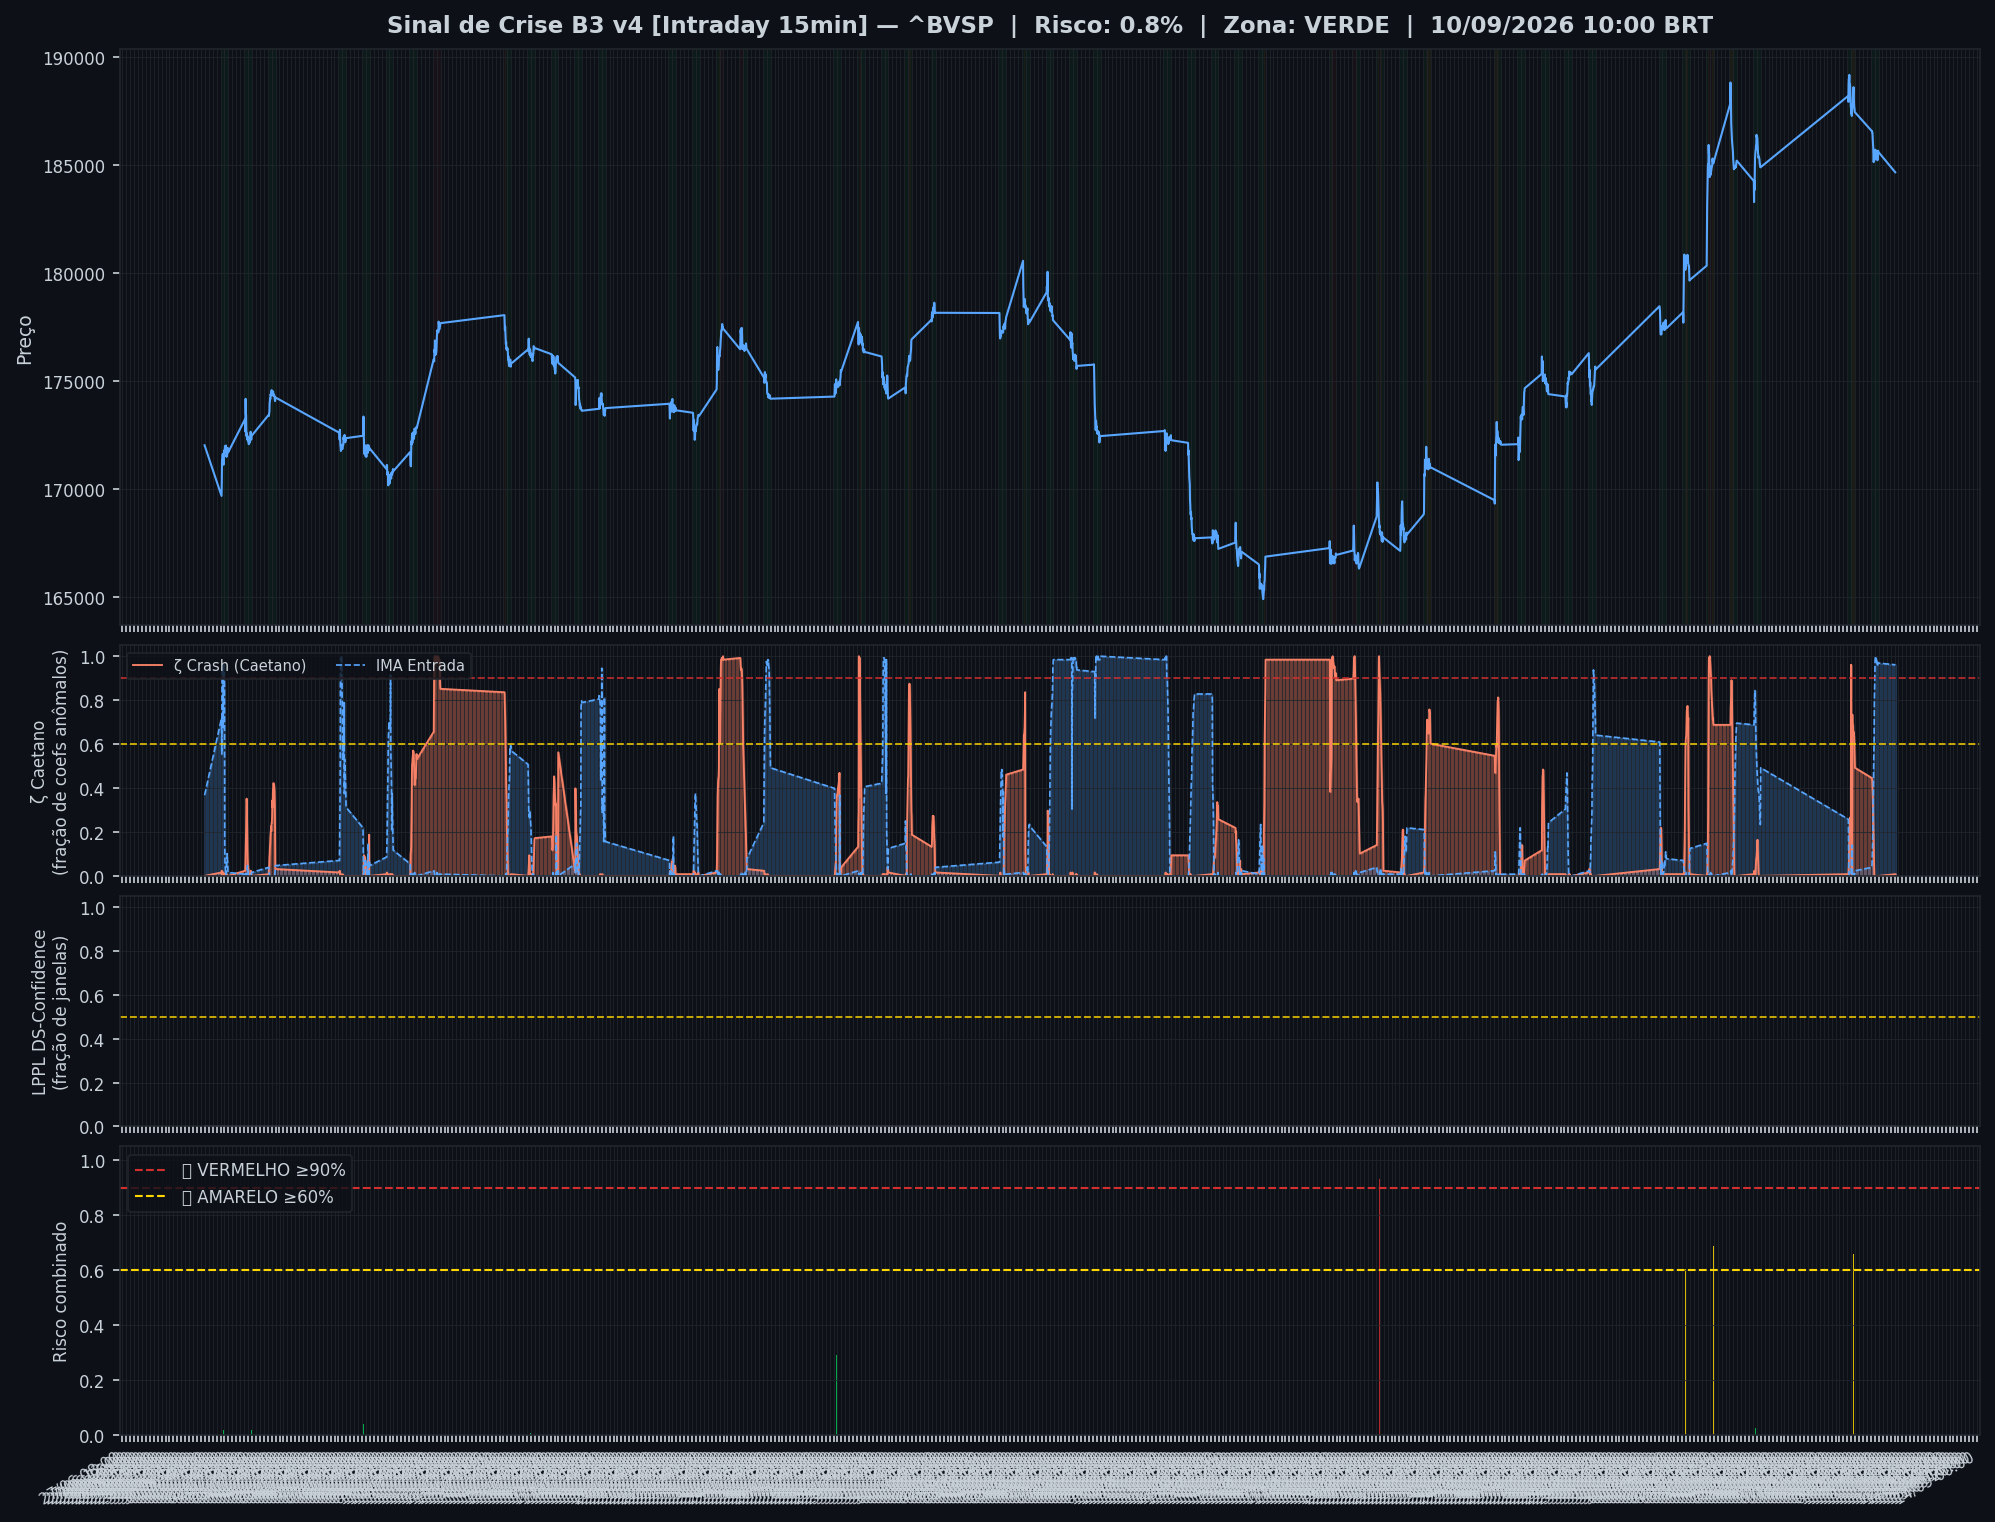
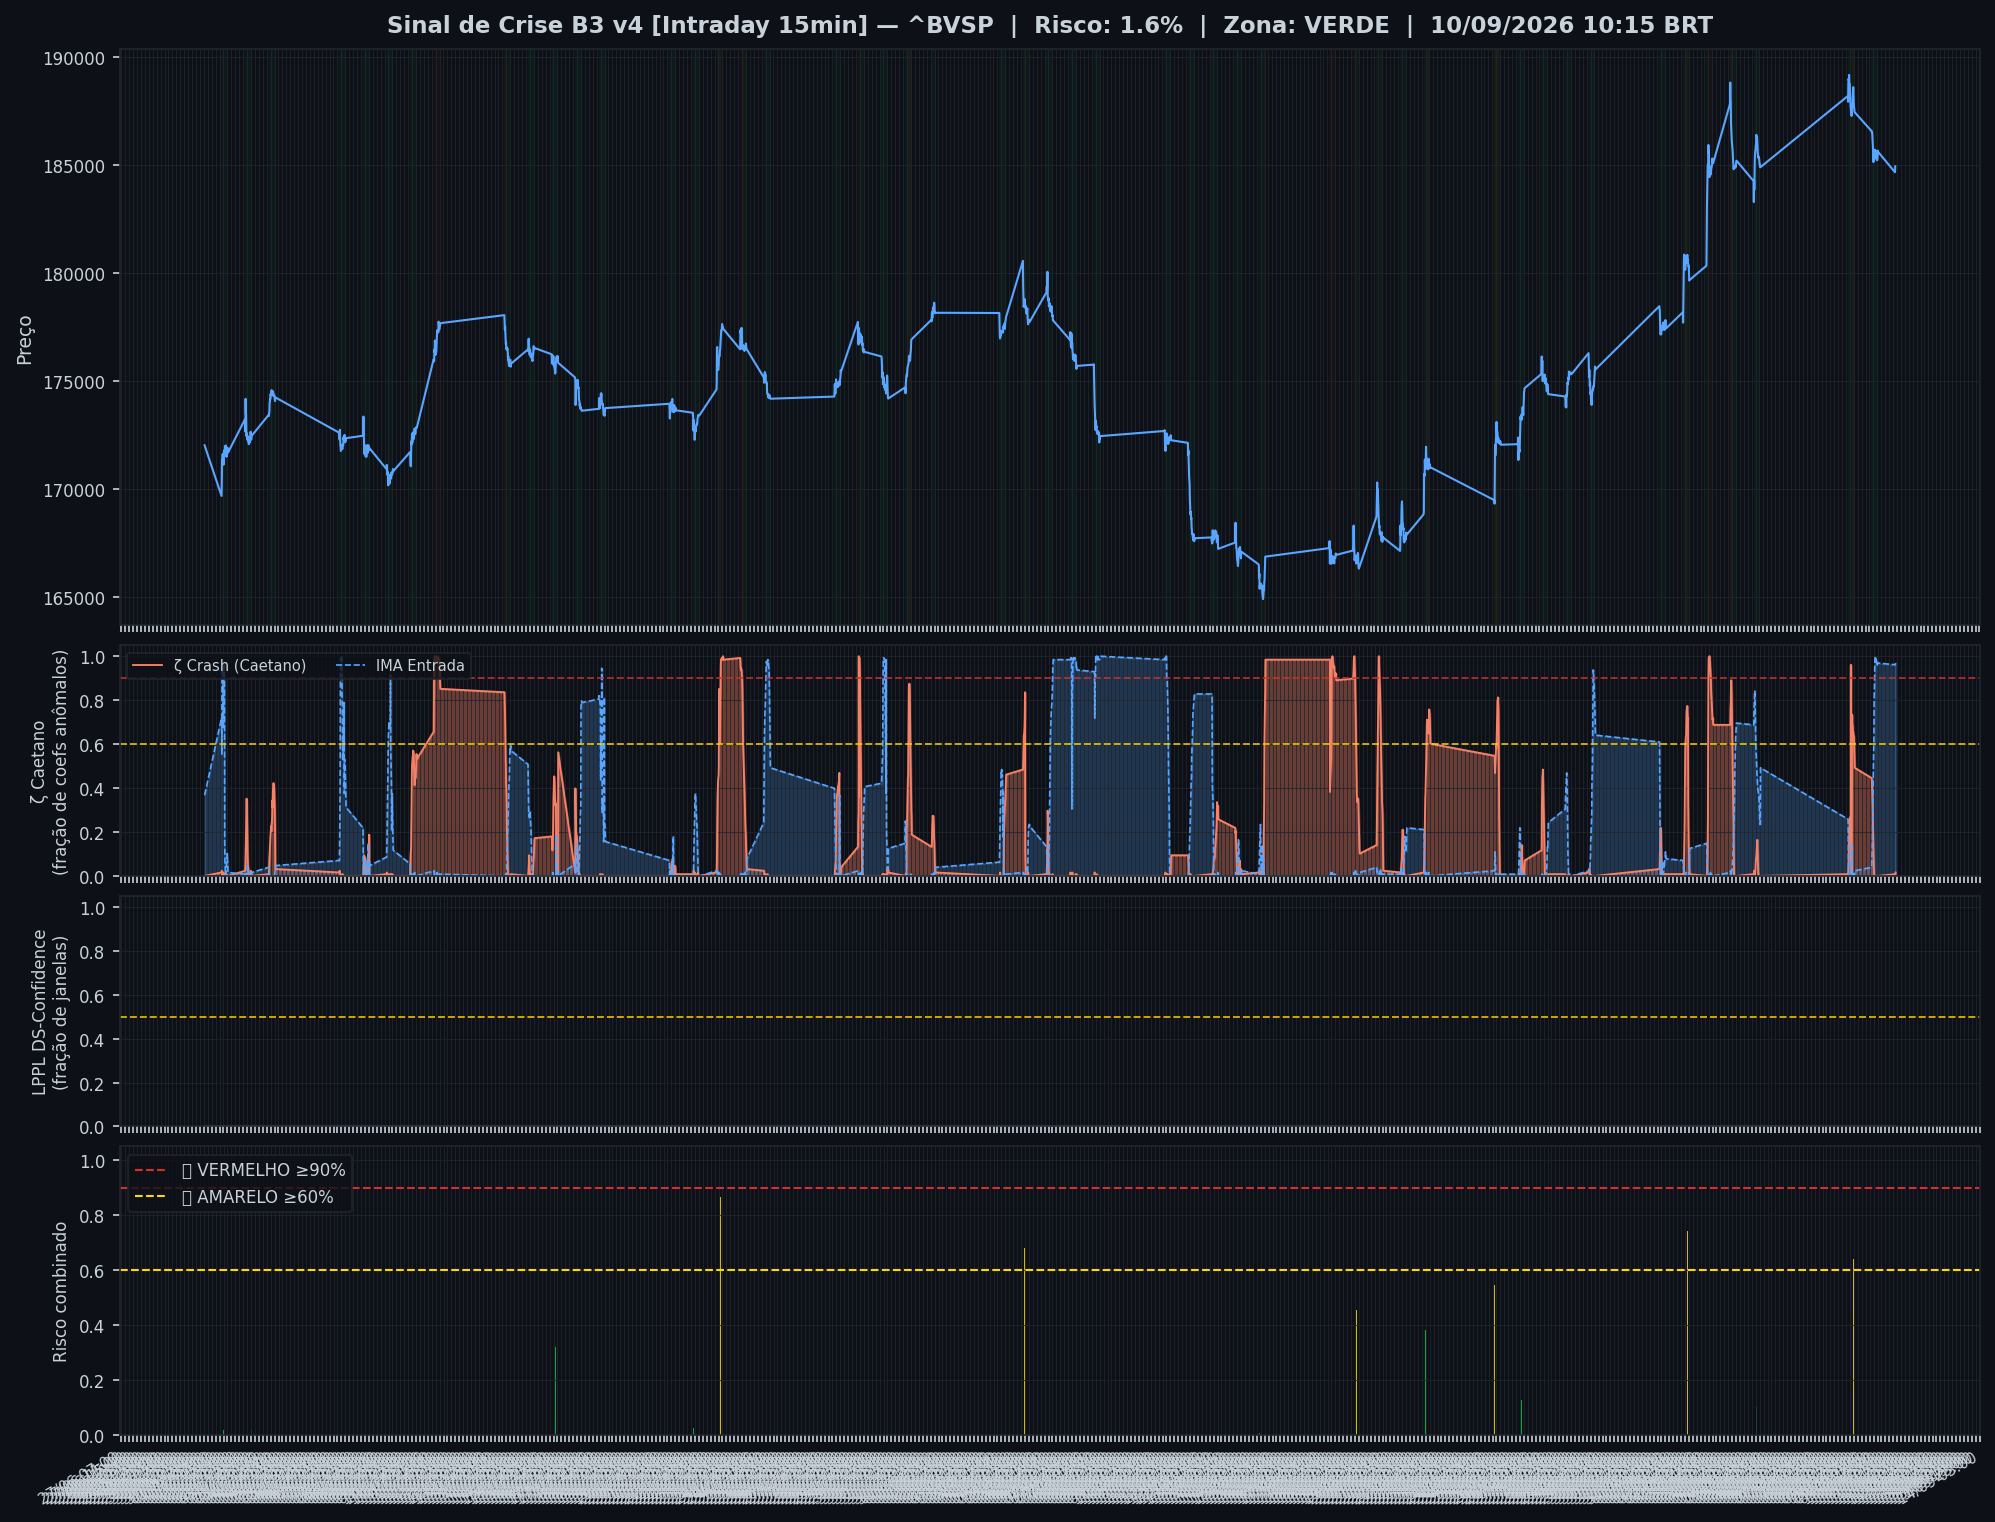
🤖 Auto: Sinal 10/09/2026 11:00

Changed region(s): [[0.0932, 0.4323, 0.9634, 0.5867], [0.0311, 0.9264, 0.9945, 0.9882]]

diff --git a/content/intraday/2026-09-10.md b/content/intraday/2026-09-10.md
@@ -1,20 +1,20 @@
 ---
-title: "🟢 Intraday 10/09/2026 10:00 BRT — VERDE"
+title: "🟢 Intraday 10/09/2026 10:15 BRT — VERDE"
 date: 2026-09-10
 tags: [intraday]
 ---
 
-> [!success] 🟢 **VERDE** — Risco 1% · ▲ +1 p.p. vs leitura anterior
+> [!success] 🟢 **VERDE** — Risco 2% · ▲ +1 p.p. vs leitura anterior
 > `░░░░░░░░░░░░░░░░░░░░`
 > Mercado sem sinais relevantes de estresse.
 
 
 | Indicador | Valor |
 |---|---|
-| 🔴 ζ Crash — severidade da queda em curso | **1%** |
-| 🔵 ζ Entrada — estrutura de fundo | 96% |
+| 🔴 ζ Crash — severidade da queda em curso | **2%** |
+| 🔵 ζ Entrada — estrutura de fundo | 97% |
 | 🫧 LPPL DS-Confidence | 0% |
-| 📊 Ibovespa | 184.663 pts |
+| 📊 Ibovespa | 184.943 pts |
 
 ![Gráfico do sinal](../graficos/sinal_intraday.png)
 
@@ -22,6 +22,7 @@ tags: [intraday]
 
 | Data | Zona | Risco | IMA Crash | Entrada | LPPL |
 |---|---|---|---|---|---|
+| 2026-09-10 10:15 | 🟢 VERDE | **2%** | 2% | 97% | 0% |
 | 2026-09-10 10:00 | 🟢 VERDE | **1%** | 1% | 96% | 0% |
 | 2026-09-09 16:45 | 🟢 VERDE | **0%** | 0% | 97% | 0% |
 | 2026-09-09 16:30 | 🟢 VERDE | **0%** | 0% | 97% | 0% |
@@ -51,7 +52,6 @@ tags: [intraday]
 | 2026-09-09 10:30 | 🟢 VERDE | **40%** | 40% | 11% | 0% |
 | 2026-09-09 10:15 | 🟢 VERDE | **43%** | 43% | 8% | 0% |
 | 2026-09-09 10:00 | 🟢 VERDE | **45%** | 45% | 4% | 0% |
-| 2026-09-08 16:45 | 🟡 AMARELO | **49%** | 49% | 2% | 0% |
 
 ## Monitor Multi-Ativo
 
@@ -59,35 +59,35 @@ tags: [intraday]
 
 | Zona | Ativo | Setor | IMA Crash | IMA Entrada |
 |---|---|---|---|---|
-| 🟢 | **USD/BRL** | Câmbio | 56.2% | 0.0% |
-| 🟢 | **VALE** | Mineração | 50.0% | 1.6% |
-| 🟢 | **ITAUUNIBANCO** | Financeiro | 50.0% | 1.6% |
-| 🟢 | **PETROBRAS** | Petróleo | 50.0% | 1.6% |
-| 🟢 | **PETROBRAS** | Petróleo | 50.0% | 1.6% |
-| 🟢 | **AXIA ENERGIA** | Energia | 50.0% | 1.6% |
-| 🟢 | **SABESP** | Saneamento | 50.0% | 1.6% |
-| 🟢 | **BRADESCO** | Financeiro | 50.0% | 1.6% |
-| 🟢 | **B3** | Financeiro | 50.0% | 1.6% |
-| 🟢 | **ITAUSA** | Financeiro | 50.0% | 1.6% |
-| 🟢 | **WEG** | Industrial | 50.0% | 1.6% |
+| 🟢 | **USD/BRL** | Câmbio | 62.5% | 0.0% |
+| 🟢 | **VALE** | Mineração | 56.2% | 0.0% |
+| 🟢 | **ITAUUNIBANCO** | Financeiro | 56.2% | 0.0% |
+| 🟢 | **PETROBRAS** | Petróleo | 56.2% | 0.0% |
+| 🟢 | **PETROBRAS** | Petróleo | 56.2% | 0.0% |
+| 🟢 | **AXIA ENERGIA** | Energia | 56.2% | 0.0% |
+| 🟢 | **SABESP** | Saneamento | 56.2% | 0.0% |
+| 🟢 | **BRADESCO** | Financeiro | 56.2% | 0.0% |
+| 🟢 | **B3** | Financeiro | 56.2% | 0.0% |
+| 🟢 | **ITAUSA** | Financeiro | 56.2% | 0.0% |
+| 🟢 | **WEG** | Industrial | 56.2% | 0.0% |
+| 🟢 | **EMBRAER** | Outros | 56.2% | 0.0% |
+| 🟢 | **BRASIL** | Financeiro | 56.2% | 0.0% |
+| 🟢 | **AMBEV S/A** | Consumo | 56.2% | 0.0% |
+| 🟢 | **ENEVA** | Energia | 56.2% | 0.0% |
+| 🟢 | **EQUATORIAL** | Energia | 56.2% | 0.0% |
+| 🟢 | **COPEL** | Energia | 56.2% | 0.0% |
+| 🟢 | **PRIO** | Petróleo | 56.2% | 0.0% |
+| 🟢 | **VIBRA** | Energia | 56.2% | 0.0% |
+| 🟢 | **ULTRAPAR** | Outros | 56.2% | 0.0% |
+| 🟢 | **REDE D OR** | Saúde | 56.2% | 0.0% |
+| 🟢 | **LOCALIZA** | Aluguel | 56.2% | 0.0% |
+| 🟢 | **GERDAU** | Siderurgia | 56.2% | 0.0% |
+| 🟢 | **SUZANO S.A.** | Papel/Celulose | 56.2% | 0.0% |
 | 🟢 | **BTGP BANCO** | Financeiro | 50.0% | 1.6% |
-| 🟢 | **EMBRAER** | Outros | 50.0% | 1.6% |
-| 🟢 | **BRASIL** | Financeiro | 50.0% | 1.6% |
-| 🟢 | **AMBEV S/A** | Consumo | 50.0% | 1.6% |
-| 🟢 | **EQUATORIAL** | Energia | 50.0% | 1.6% |
-| 🟢 | **COPEL** | Energia | 50.0% | 1.6% |
-| 🟢 | **PRIO** | Petróleo | 50.0% | 1.6% |
-| 🟢 | **VIBRA** | Energia | 50.0% | 1.6% |
-| 🟢 | **ULTRAPAR** | Outros | 50.0% | 1.6% |
-| 🟢 | **REDE D OR** | Saúde | 50.0% | 1.6% |
-| 🟢 | **LOCALIZA** | Aluguel | 50.0% | 1.6% |
-| 🟢 | **GERDAU** | Siderurgia | 50.0% | 1.6% |
-| 🟢 | **SUZANO S.A.** | Papel/Celulose | 50.0% | 1.6% |
-| 🟢 | **ENEVA** | Energia | 43.8% | 2.3% |
 
 ![Monitor multi-ativo](../graficos/multi_intraday.png)
 
-*Página atualizada em 10/09/2026 10:45 BRT (leitura da barra de 2026-09-10 10:00 BRT).*
+*Página atualizada em 10/09/2026 11:00 BRT (leitura da barra de 2026-09-10 10:15 BRT).*
 
 > [!info]- Como interpretar (clique para expandir)
 > - **ζ Crash**: fração dos coeficientes wavelet acima do corte (Caetano & Yoneyama 2009). Escala absoluta: ζ=0,90 = 90% dos coeficientes anômalos — historicamente, quedas com ζ≥0,90 foram mais fundas e mais longas. **Mede a severidade do movimento em curso, não prevê o início da queda.**

diff --git a/content/index.md b/content/index.md
@@ -8,19 +8,19 @@ tags: [home]
 
 Monitoramento diário e intraday do Ibovespa — **IMA Wavelet** (Prof. Marco Antonio Leonel Caetano, ITA/INSPER) + **LPPL DS-Confidence** (Prof. Didier Sornette, ETH-Zurich).
 
-*Última atualização: 10/09/2026 10:45 BRT · ^BVSP · Intraday 15min · v4*
+*Última atualização: 10/09/2026 11:00 BRT · ^BVSP · Intraday 15min · v4*
 
-> [!success] 🟢 **VERDE** — Risco 1% · ▲ +1 p.p. vs leitura anterior
+> [!success] 🟢 **VERDE** — Risco 2% · ▲ +1 p.p. vs leitura anterior
 > `░░░░░░░░░░░░░░░░░░░░`
 > Mercado sem sinais relevantes de estresse.
 
 
 | Indicador | Valor |
 |---|---|
-| 🔴 ζ Crash — severidade da queda em curso | **1%** |
-| 🔵 ζ Entrada — estrutura de fundo | 96% |
+| 🔴 ζ Crash — severidade da queda em curso | **2%** |
+| 🔵 ζ Entrada — estrutura de fundo | 97% |
 | 🫧 LPPL DS-Confidence | 0% |
-| 📊 Ibovespa | 184.663 pts |
+| 📊 Ibovespa | 184.943 pts |
 
 **Multi-ativo:** 0% em tensão (0🔴 0🟡 de 25 ativos)
 
@@ -32,9 +32,8 @@ Monitoramento diário e intraday do Ibovespa — **IMA Wavelet** (Prof. Marco An
 
 | Data | Zona | Risco | IMA | LPPL |
 |---|---|---|---|---|
-| [10 Sep 2026](diario/2026-09-10) | 🟢 VERDE | **1%** | 1% | 0% |
+| [10 Sep 2026](diario/2026-09-10) | 🟢 VERDE | **2%** | 2% | 0% |
 | [09 Sep 2026](diario/2026-09-09) | 🟢 VERDE | **0%** | 0% | 0% |
-| [08 Sep 2026](diario/2026-09-08) | 🟡 AMARELO | **49%** | 49% | 0% |
 
 ## Navegação
 

diff --git a/content/historico.md b/content/historico.md
@@ -7,6 +7,7 @@ tags: [historico]
 
 | Data | Modo | Zona | Risco | IMA | LPPL |
 |---|---|---|---|---|---|
+| 2026-09-10 10:15 | intraday | 🟢 VERDE | 2% | 2% | 0% |
 | 2026-09-10 10:00 | intraday | 🟢 VERDE | 1% | 1% | 0% |
 | 2026-09-08 | diario | 🟢 VERDE | 22% | 37% | 0% |
 | 2026-09-09 16:45 | intraday | 🟢 VERDE | 0% | 0% | 0% |
